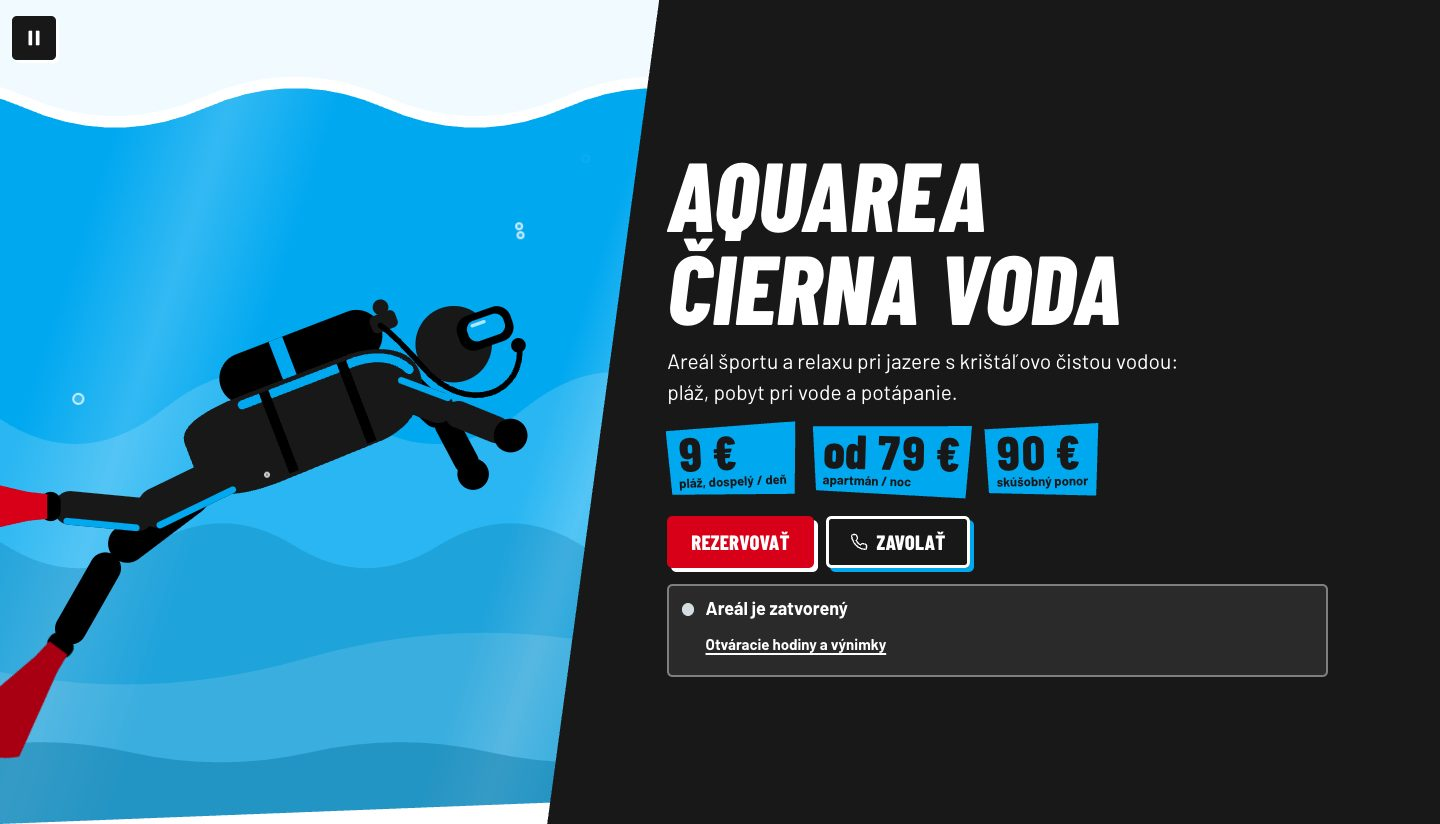
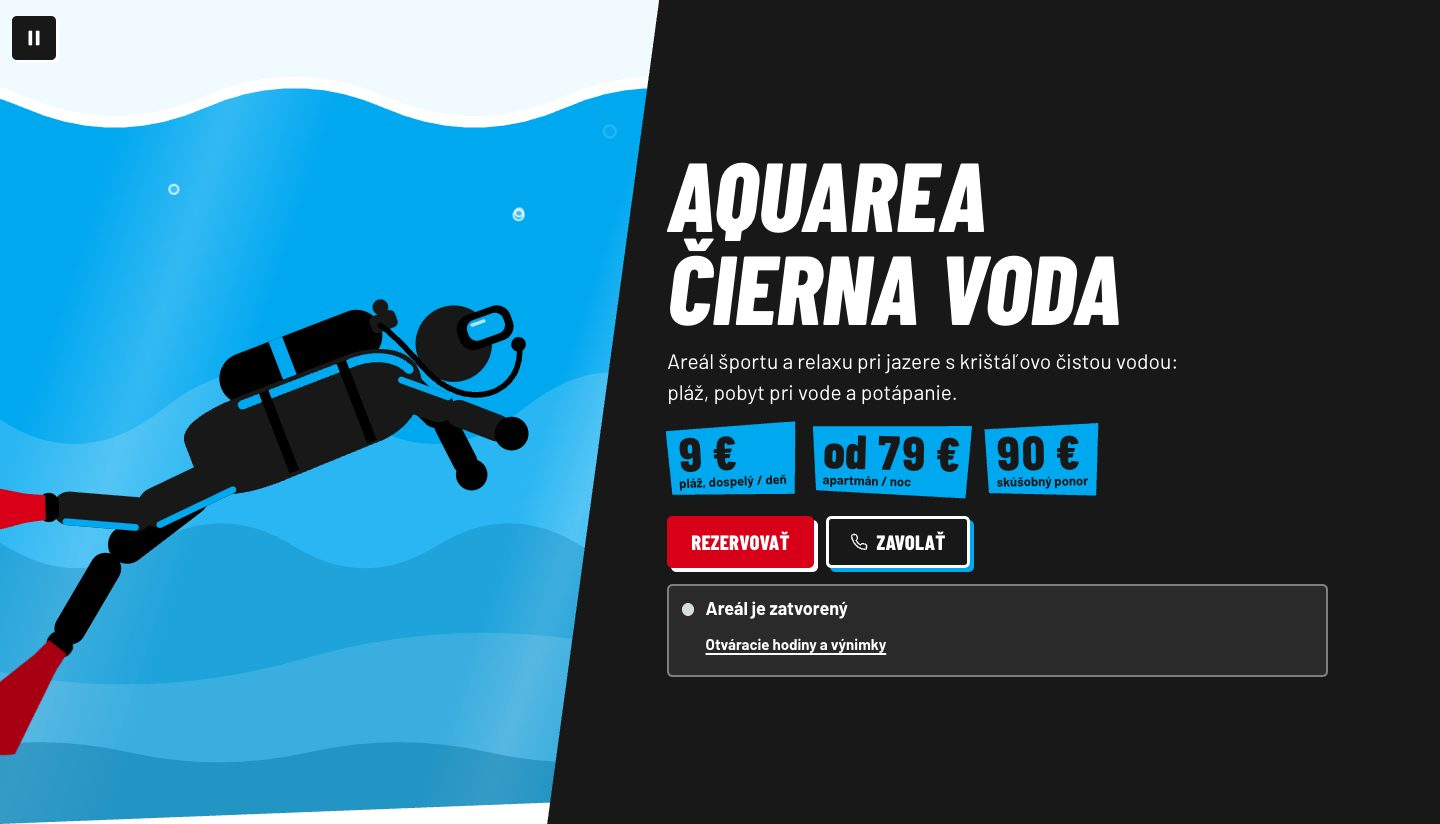
Phase 6: review fixes for V7 (reflow at 320 px incl. text spacing, 44 px footer targets, beach slab fill, hours no-wrap on desktop, larger Dive diver)

diff --git a/src/styles/v7.css b/src/styles/v7.css
@@ -70,7 +70,7 @@
   .v7-link:hover { text-decoration-thickness: 4px; text-underline-offset: .3em; }
   .v7-cta, .v7-btn {
     display: inline-flex; align-items: center; justify-content: center; gap: .55rem; min-height: 3.25rem; padding: 0 1.5rem;
-    border-radius: .35rem; font-family: var(--v7-display); font-weight: 800; font-size: 1.3rem; text-transform: uppercase; letter-spacing: .01em; line-height: 1; white-space: nowrap;
+    border-radius: .35rem; font-family: var(--v7-display); font-weight: 800; font-size: 1.3rem; text-transform: uppercase; letter-spacing: .01em; line-height: 1; text-align: center;
     transition: transform .18s var(--ease-out), box-shadow .18s var(--ease-out), background-color .2s var(--ease-out);
   }
   .v7-cta { background: var(--v7-cervena); color: #fff; box-shadow: 4px 4px 0 var(--v7-cierna); }
@@ -120,7 +120,7 @@
 
   .v7-panel { position: relative; z-index: 2; background: var(--v7-cierna); color: #fff; margin-top: calc(var(--cut) * -.6); padding: calc(var(--cut) * .6 + 1.25rem) 0 1.5rem; clip-path: polygon(0 calc(var(--cut) * .6), 100% 0, 100% 100%, 0 100%); }
   .v7-panel :focus-visible { outline-color: #fff; }
-  .v7-price-strip { display: grid; grid-template-columns: repeat(3, auto); gap: .6rem .9rem; align-items: end; justify-content: start; }
+  .v7-price-strip { display: flex; flex-wrap: wrap; gap: .6rem .9rem; align-items: flex-end; }
   .v7-sticker { display: inline-flex; flex-direction: column; padding: .3rem .7rem .45rem; background: var(--v7-modra); color: var(--v7-cierna); transform: rotate(-2.5deg); clip-path: polygon(0 6%, 100% 0, 97% 100%, 3% 94%); }
   .v7-sticker:nth-child(2) { transform: rotate(1.5deg); }
   .v7-sticker:nth-child(3) { transform: rotate(-1deg); }
@@ -149,6 +149,7 @@
   .v7-slab:focus-within { outline: 3px solid var(--v7-cierna); outline-offset: -3px; }
   .v7-dark.v7-slab:focus-within, .v7-slab.v7-on-ink:focus-within, .v7-slab.v7-on-deep:focus-within { outline-color: #fff; }
   @media (hover: hover) { .v7-slab:hover .v7-slab-media img { transform: scale(1.05); } }
+  @media (min-width: 1024px) { .v7-slab[data-big] .v7-slab-body { flex: none; } }  /* the tall slab's photo takes the spare height */
   .v7-big-num { font-family: var(--v7-display); font-weight: 800; font-size: clamp(2.6rem, 5vw, 3.8rem); line-height: .9; }
 
   /* facts (Dive Center) */
@@ -160,7 +161,7 @@
 
   /* prices */
   .v7-price-row { display: flex; align-items: flex-end; justify-content: space-between; gap: 1rem; padding: .8rem 0; border-bottom: 3px solid var(--v7-cierna); }
-  .v7-price-row dd { font-family: var(--v7-display); font-weight: 800; font-size: clamp(2.2rem, 4vw, 3.2rem); line-height: .9; white-space: nowrap; }
+  .v7-price-row dd { font-family: var(--v7-display); font-weight: 800; font-size: clamp(2.2rem, 4vw, 3.2rem); line-height: .9; }
 
   /* hours accordion + tables (m-acc from lib/motion) */
   .v7-accordion { border-top: 3px solid currentColor; }
